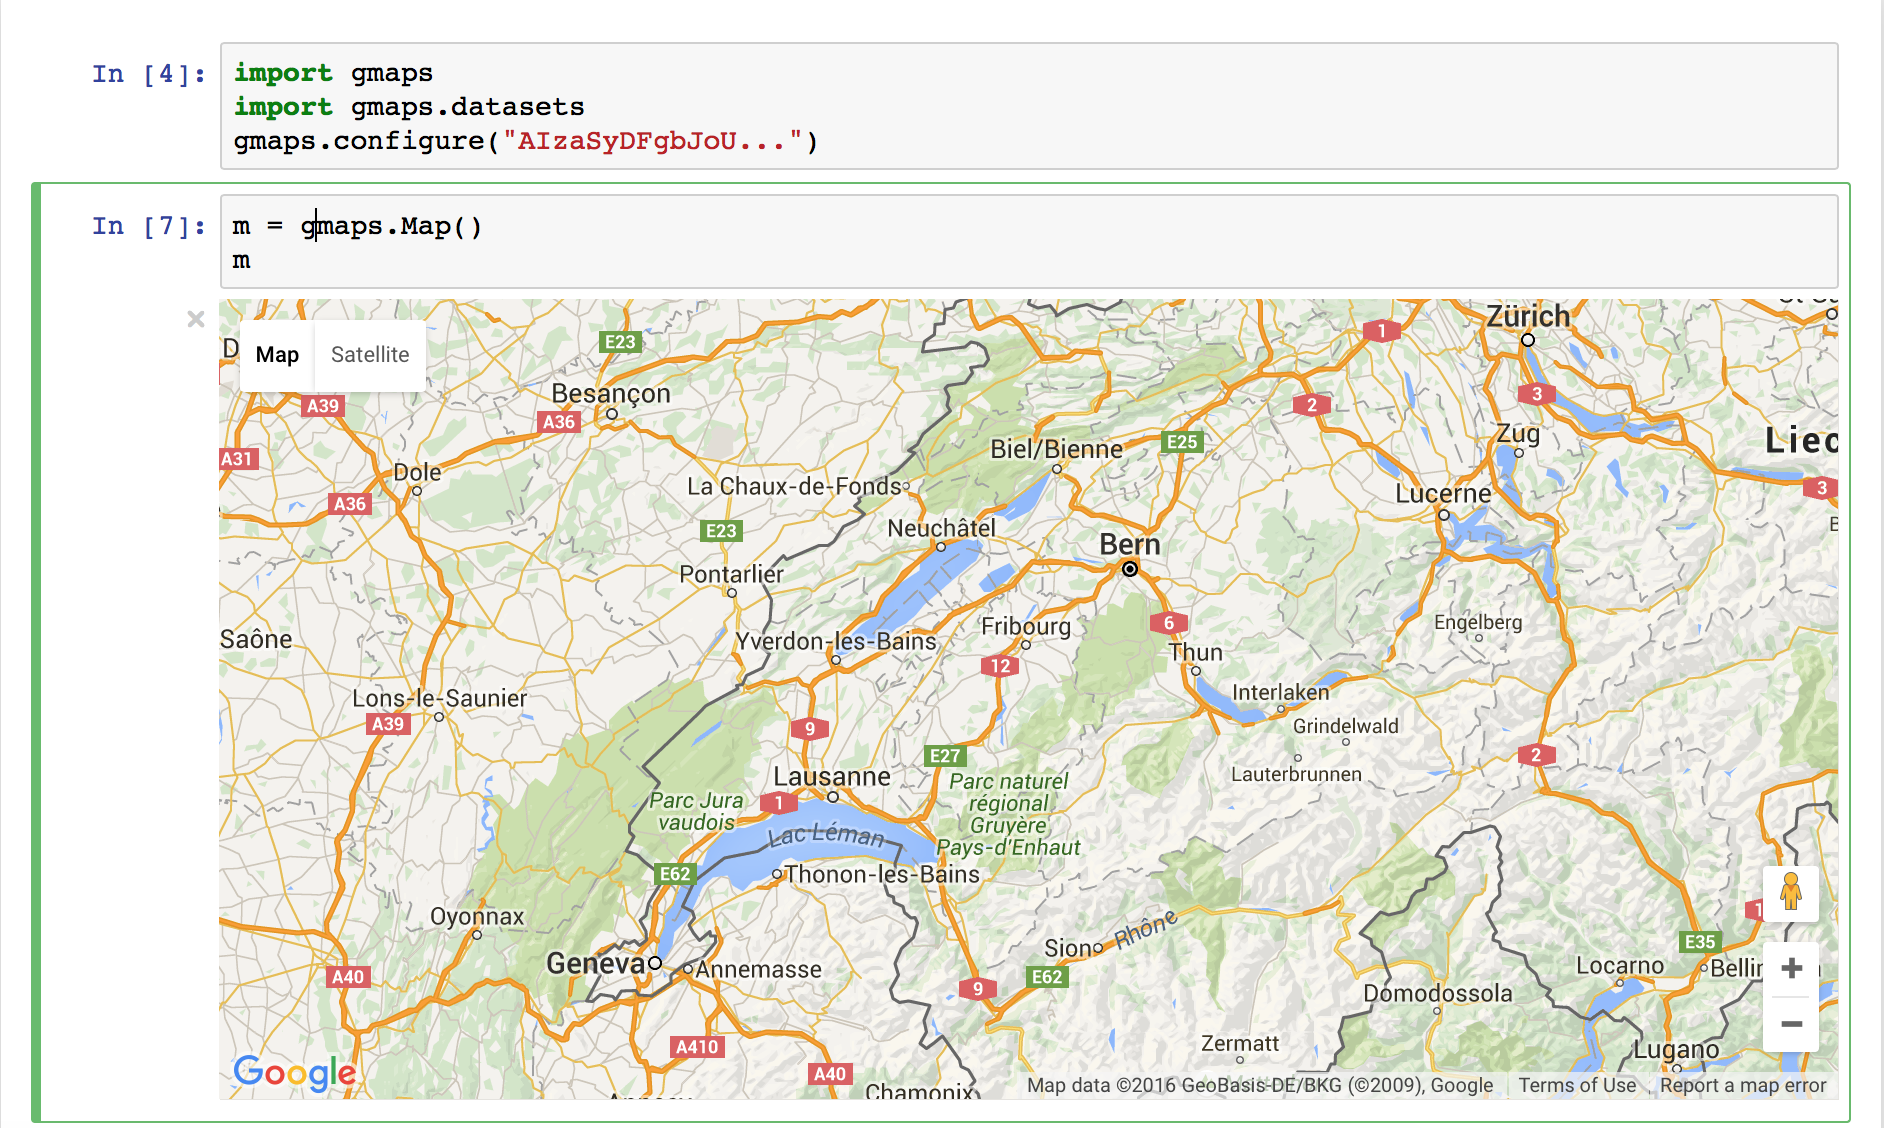
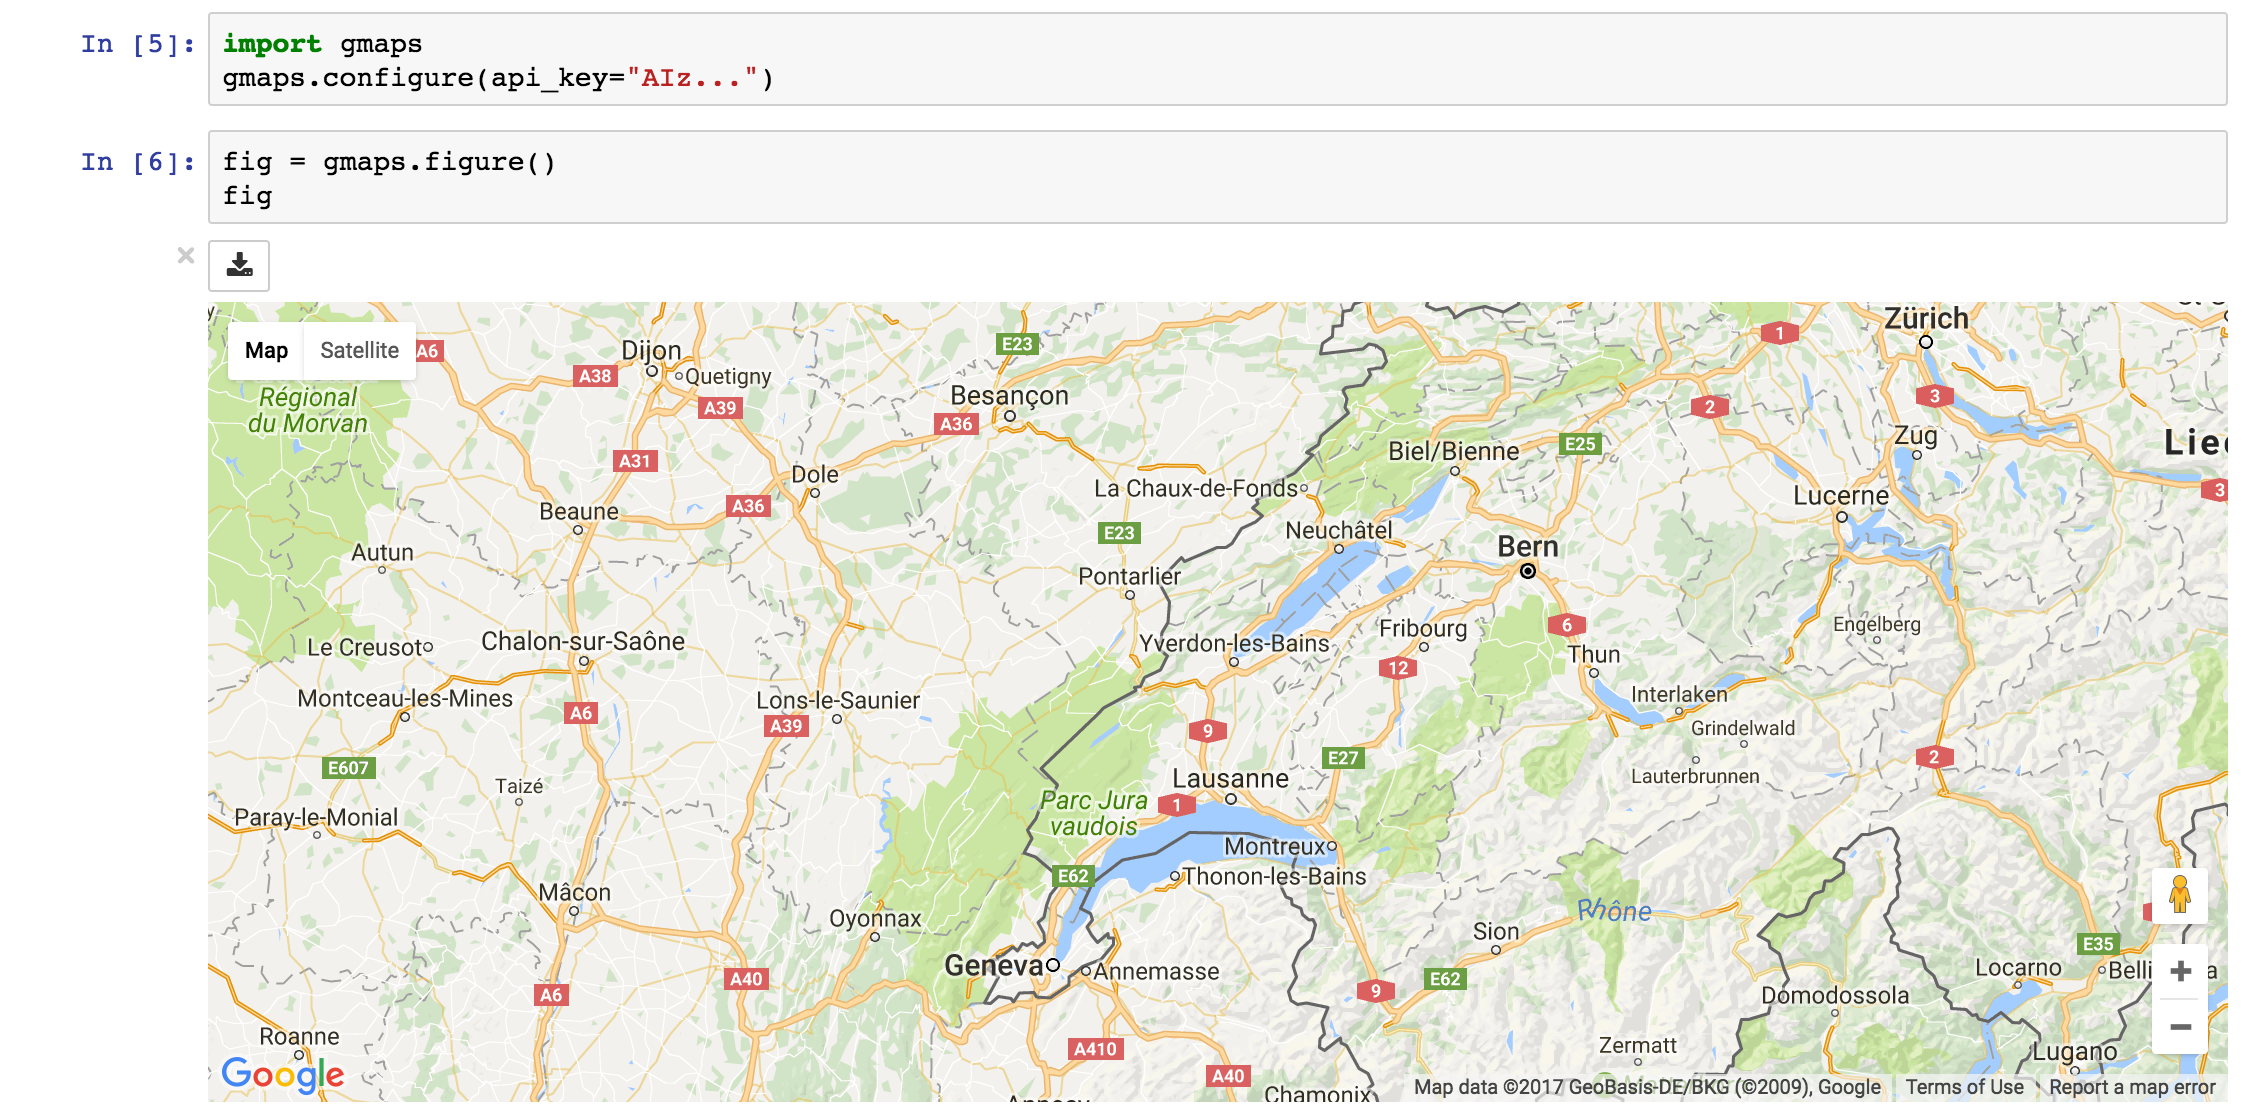
Start migrating documentation to use `figure` instead of `Map`

diff --git a/docs/source/gmaps.rst b/docs/source/gmaps.rst
@@ -18,9 +18,9 @@ The earthquake data has three columns: a latitude and longitude indicating the e
 
   locations = earthquake_df[["latitude", "longitude"]]
   weights = earthquake_df["magnitude"]
-  m = gmaps.Map()
-  m.add_layer(gmaps.heatmap_layer(locations, weights=weights))
-  m
+  fig = gmaps.figure()
+  fig.add_layer(gmaps.heatmap_layer(locations, weights=weights))
+  fig
 
 .. image:: tutorial-earthquakes.*
 
@@ -30,13 +30,13 @@ This gives you a fully-fledged Google map. You can zoom in and out, switch to sa
 Basic concepts
 ^^^^^^^^^^^^^^
 
-`gmaps` is built around the idea of adding layers to a base map. After you've `authenticated <authentication.html>`_ with Google maps, you start by creating a base map::
+`gmaps` is built around the idea of adding layers to a base map. After you've `authenticated <authentication.html>`_ with Google maps, you start by creating a figure, which contains a base map::
 
   import gmaps
   gmaps.configure(api_key="AI...")
 
-  m = gmaps.Map()
-  m
+  fig = gmaps.figure()
+  fig
 
 .. image:: plainmap2.*
 
@@ -45,14 +45,14 @@ You then add layers on top of the base map. For instance, to add a heatmap layer
   import gmaps
   gmaps.configure(api_key="AI...")
 
-  m = gmaps.Map()
+  fig = gmaps.figure()
 
   # generate some (latitude, longitude) pairs
   locations = [(51.5, 0.1), (51.7, 0.2), (51.4, -0.2), (51.49, 0.1)]
 
   heatmap_layer = gmaps.heatmap_layer(locations)
-  m.add_layer(heatmap_layer)
-  m
+  fig.add_layer(heatmap_layer)
+  fig
 
 .. image:: plainmap3.*
 
@@ -72,7 +72,9 @@ The former construction is useful for modifying a map once it has been built. An
 Heatmaps
 ^^^^^^^^
 
-Heatmaps are a good way of getting a sense of the density and clusters of geographical events. They are a powerful tool for making sense of larger datasets. We will use a dataset recording all instances of political violence that occurred in Africa between 1997 and 2015. The dataset comes from the `Armed Conflict Location and Event Data Project <http://www.acleddata.com>`_. This dataset contains about 110,000 rows.::
+Heatmaps are a good way of getting a sense of the density and clusters of geographical events. They are a powerful tool for making sense of larger datasets. We will use a dataset recording all instances of political violence that occurred in Africa between 1997 and 2015. The dataset comes from the `Armed Conflict Location and Event Data Project <http://www.acleddata.com>`_. This dataset contains about 110,000 rows.
+
+::
 
   import gmaps.datasets
 
@@ -89,10 +91,10 @@ We already know how to build a heatmap layer::
   gmaps.configure(api_key="AI...")
 
   locations = gmaps.datasets.load_dataset_as_df("acled_africa")
-  m = gmaps.Map()
+  fig = gmaps.figure()
   heatmap_layer = gmaps.heatmap_layer(locations)
-  m.add_layer(heatmap_layer)
-  m
+  fig.add_layer(heatmap_layer)
+  fig
 
 .. image:: acled_africa_heatmap_basic.png
 
@@ -140,7 +142,9 @@ You can also use the ``opacity`` option to set a single opacity across the entir
 Weighted heatmaps
 ^^^^^^^^^^^^^^^^^
 
-By default, heatmaps assume that every row is of equal importance. You can override this by passing weights through the `weights` keyword argument. The `weights` array is an iterable (e.g. a Python list or a Numpy array) or a single pandas series. Weights must all be positive (this is a limitation in Google maps itself).::
+By default, heatmaps assume that every row is of equal importance. You can override this by passing weights through the `weights` keyword argument. The `weights` array is an iterable (e.g. a Python list or a Numpy array) or a single pandas series. Weights must all be positive (this is a limitation in Google maps itself).
+
+::
 
   import gmaps
   import gmaps.datasets
@@ -149,13 +153,13 @@ By default, heatmaps assume that every row is of equal importance. You can overr
   df = gmaps.datasets.load_dataset_as_df("earthquakes")
   # dataframe with columns ('latitude', 'longitude', 'magnitude')
 
-  m = gmaps.Map()
+  fig = gmaps.figure()
   heatmap_layer = gmaps.heatmap_layer(
       df[["latitude", "longitude"]], weights=df["magnitude"],
       max_intensity=30, point_radius=3.0 
   )
-  m.add_layer(heatmap_layer)
-  m
+  fig.add_layer(heatmap_layer)
+  fig
 
 
 .. image:: weighted-heatmap-example.png
